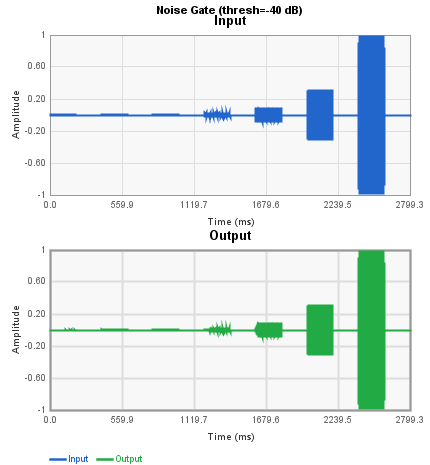
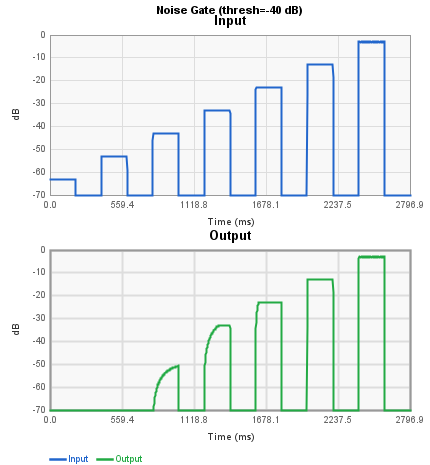
Switch dynamics burst plots to dB scale and document attack transients
Burst response plots now show windowed RMS level in dB instead of linear
amplitude. Added envelopeDb() and writeStackedEnvelopePlot() to PlotUtils.
Updated Peak Compressor and RMS Compressor descriptions to explain the
attack transient visible on the leading edge of compressed bursts.

diff --git a/src/test/java/com/holycityaudio/SpinCAD/PlotUtils.java b/src/test/java/com/holycityaudio/SpinCAD/PlotUtils.java
@@ -312,6 +312,66 @@ public class PlotUtils {
         ImageIO.write(img, "png", file);
     }
 
+    // ==================== dB envelope plots ====================
+
+    /** Compute windowed RMS envelope in dB from raw sample data. */
+    public static double[] envelopeDb(double[] data, int windowSamples, double floorDb) {
+        int numWindows = data.length / windowSamples;
+        double[] env = new double[numWindows];
+        for (int i = 0; i < numWindows; i++) {
+            int start = i * windowSamples;
+            double sumSq = 0;
+            for (int j = start; j < start + windowSamples; j++) {
+                sumSq += data[j] * data[j];
+            }
+            double rmsVal = Math.sqrt(sumSq / windowSamples);
+            env[i] = rmsVal > 0 ? 20 * Math.log10(rmsVal) : floorDb;
+            if (env[i] < floorDb) env[i] = floorDb;
+        }
+        return env;
+    }
+
+    /** Write a 2-panel stacked dB envelope plot. */
+    public static void writeStackedEnvelopePlot(File file, String title,
+            double[] timeMs, double[] topDbData, double[] bottomDbData,
+            String topLabel, String bottomLabel,
+            double dbMin, double dbMax) throws IOException {
+        int plotW = 360, plotH = 160;
+        int padL = 50, padR = 20, padT = 35, padB = 15;
+        int gap = 55, legendH = 40;
+        int totalW = padL + plotW + padR;
+        int totalH = padT + plotH + gap + plotH + padB + legendH;
+        double xMin = timeMs[0], xMax = timeMs[timeMs.length - 1];
+
+        BufferedImage img = new BufferedImage(totalW, totalH, BufferedImage.TYPE_INT_ARGB);
+        Graphics2D g = createGraphics(img, totalW, totalH);
+
+        g.setFont(new Font("Arial", Font.BOLD, 11));
+        g.setColor(Color.BLACK);
+        FontMetrics fm = g.getFontMetrics();
+        g.drawString(title, padL + plotW / 2 - fm.stringWidth(title) / 2, 14);
+
+        int numYTicks = (int) ((dbMax - dbMin) / 10);
+
+        int py1 = padT;
+        drawPlot(g, padL, py1, plotW, plotH, topLabel,
+            "Time (ms)", "dB", xMin, xMax, dbMin, dbMax, 5, numYTicks);
+        drawCurve(g, timeMs, topDbData, padL, py1, plotW, plotH,
+            xMin, xMax, dbMin, dbMax, COLORS[0]);
+
+        int py2 = padT + plotH + gap;
+        drawPlot(g, padL, py2, plotW, plotH, bottomLabel,
+            "Time (ms)", "dB", xMin, xMax, dbMin, dbMax, 5, numYTicks);
+        drawCurve(g, timeMs, bottomDbData, padL, py2, plotW, plotH,
+            xMin, xMax, dbMin, dbMax, COLORS[1]);
+
+        drawLegend(g, padL, py2 + plotH + 52,
+            new String[]{topLabel, bottomLabel},
+            new String[]{COLORS[0], COLORS[1]});
+        g.dispose();
+        ImageIO.write(img, "png", file);
+    }
+
     // ==================== WAV generation ====================
 
     /** Generate a stereo sine wave WAV at given frequency and amplitude. */

diff --git a/src/test/java/com/holycityaudio/SpinCAD/DynamicsBurstDocTest.java b/src/test/java/com/holycityaudio/SpinCAD/DynamicsBurstDocTest.java
@@ -12,10 +12,10 @@ import org.junit.jupiter.api.io.TempDir;
 import com.holycityaudio.SpinCAD.CADBlocks.*;
 
 /**
- * Generates stepped-tone-burst waveform plots for dynamics blocks.
+ * Generates stepped-tone-burst dB envelope plots for dynamics blocks.
  *
  * Input: 1 kHz tone bursts at -60 to 0 dBFS in 10 dB steps,
- * 200 ms on / 200 ms off. Output: stacked input/output PNG.
+ * 200 ms on / 200 ms off. Output: stacked input/output dB envelope PNG.
  */
 public class DynamicsBurstDocTest {
 
@@ -26,6 +26,8 @@ public class DynamicsBurstDocTest {
     private static final double BURST_DURATION = 0.200;
     private static final double SILENCE_DURATION = 0.200;
     private static final double[] LEVELS_DB = {-60, -50, -40, -30, -20, -10, 0};
+    private static final int ENV_WINDOW = 64; // ~2 ms at 32768 Hz
+    private static final double DB_FLOOR = -70;
     private static final File DOCS_DIR = new File("docs/images");
 
     @BeforeAll
@@ -106,13 +108,13 @@ public class DynamicsBurstDocTest {
         double[] input = toDouble(extractChannel(inputStereo, 0));
         double[] output = toDouble(extractChannel(stereo, 0));
 
-        int decimation = 8;
-        double[] inputDec = decimate(input, decimation);
-        double[] outputDec = decimate(output, decimation);
-        double[] timeMs = timeAxisMs(inputDec.length, SAMPLE_RATE / decimation);
+        double[] inputEnv = envelopeDb(input, ENV_WINDOW, DB_FLOOR);
+        double[] outputEnv = envelopeDb(output, ENV_WINDOW, DB_FLOOR);
+        double[] timeMs = timeAxisMs(inputEnv.length, SAMPLE_RATE / ENV_WINDOW);
 
-        writeStackedWaveformPlot(new File(DOCS_DIR, filename), title,
-            timeMs, inputDec, outputDec, "Input", "Output");
+        writeStackedEnvelopePlot(new File(DOCS_DIR, filename), title,
+            timeMs, inputEnv, outputEnv, "Input", "Output",
+            DB_FLOOR, 0);
         System.out.println("  wrote " + filename);
     }
 

diff --git a/docs/dynamics-blocks.md b/docs/dynamics-blocks.md
@@ -93,6 +93,10 @@ The knee point shifts with the threshold.
 
 Stepped 1 kHz tone bursts from -60 to 0 dBFS (ratio=8:1, threshold=-25 dB).
 The loudest bursts are compressed to nearly the same level in the output.
+The brief spike visible on the leading edge of each compressed burst is the
+attack transient — the compressor takes a short time to respond to the sudden
+level change. The Attack Time parameter controls how quickly the compressor
+reacts; shorter attack times reduce this overshoot.
 
 ---
 
@@ -141,7 +145,10 @@ Input-vs-output transfer curve at strength=0.75 for two threshold settings.
 
 Stepped 1 kHz tone bursts from -60 to 0 dBFS (strength=1.0, threshold=-25 dB).
 The output levels are compressed above threshold, producing a narrower
-dynamic range than the input.
+dynamic range than the input. The brief spike visible on the leading edge of
+each compressed burst is the attack transient — the compressor takes a short
+time to respond to the sudden level change. The Attack Time parameter controls
+how quickly the compressor reacts; shorter attack times reduce this overshoot.
 
 ---
 
